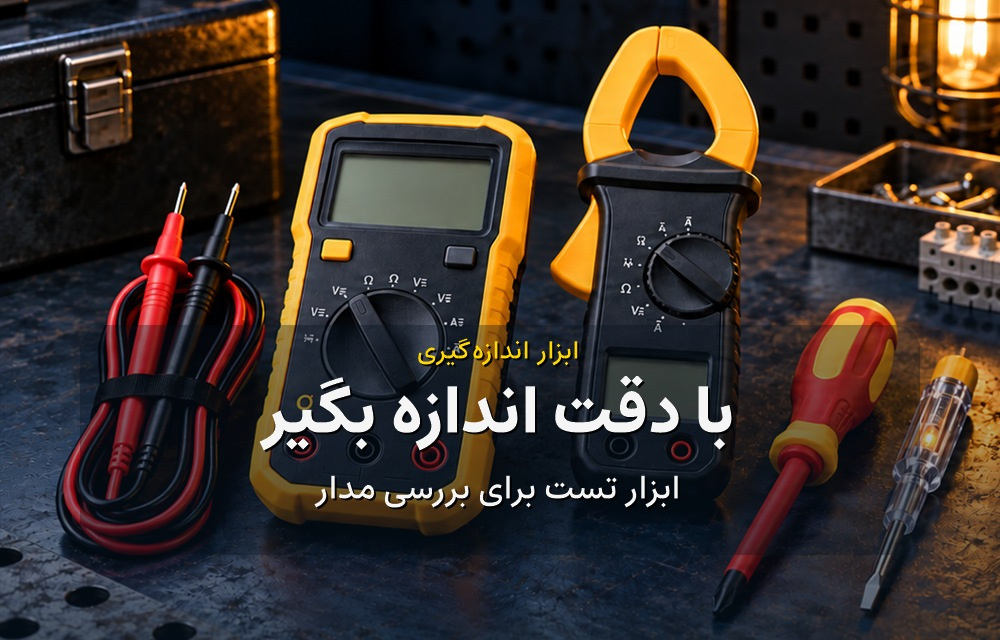
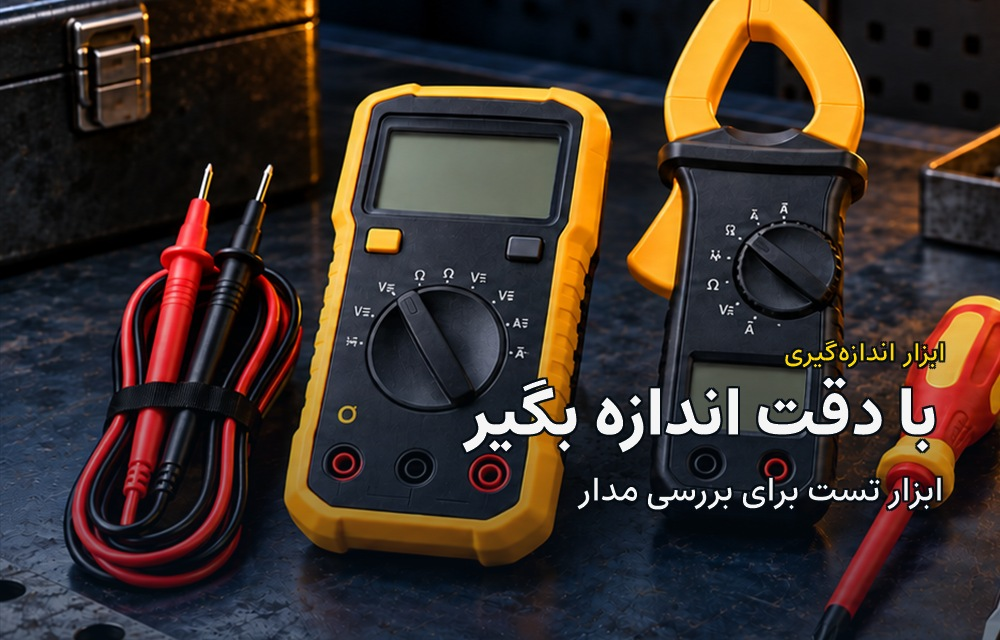
2

diff --git a/docs/media/images.md b/docs/media/images.md
@@ -51,7 +51,7 @@ content/products/
 | کاربرد | مسیر معمول | اندازهٔ پیشنهادی | وضعیت فعلی و نکتهٔ نمایش |
 |---|---|---:|---|
 | اسلایدر اصلی خانه — دسکتاپ | `content/sliders/` | **2160×800 px** (حدود 2.7:1) | قاب دسکتاپ ارتفاعی بین 320 و 440 px دارد و تصویر با `cover` نمایش داده میشود. بنرهای `electrical-components-pro-desktop-v2.png` و `electrical-measurement-desktop-v2.png` با حفظ ترکیب و رنگ، حاشیهٔ امن بیشتری برای متن دارند؛ اندازهٔ هر دو 2172×724 px است. نسخهٔ موبایل مستقل و با `cover` است. |
-| اسلایدر اصلی خانه — موبایل | `content/sliders/mobile/` | **1000×640 px** (حدود 1.56:1) | برای هر یک از شش بنر دسکتاپ، نسخهٔ موبایل مستقل ساخته شده است. متن کوتاه فارسی با فونت Estedad و هماهنگ با تیتر دسکتاپ، روی خود عکس raster شده است. سایهٔ تدریجی و ماسک نیمهشفاف کوچک پشت نوشته خوانایی را بهتر میکنند، بدون پنل سرمهای بزرگ یا متن HTML شناور. کیفیت JPEG با تنظیم بالا ذخیره میشود. نسبت فایل با قاب `cover` موبایل (حدود 220–300 px ارتفاع) هماهنگ است؛ هنگام افزودن موضوع تازه، خوانایی متن و کادر عکس را در عرضهای 360–412 px بررسی کنید. |
+| اسلایدر اصلی خانه — موبایل | `content/sliders/mobile/` | **1000×640 px** (حدود 1.56:1) | برای هر یک از شش بنر دسکتاپ، نسخهٔ موبایل مستقل ساخته شده است. متن کوتاه فارسی با فونت Estedad و هماهنگ با تیتر دسکتاپ، روی خود عکس raster شده است. سایهٔ تدریجی ملایم روی عکس و هالهٔ تیرهٔ دور حروف خوانایی را بهتر میکنند؛ نوشتهها راستچیناند و پنل یا ماسک مستطیلی ندارند. کیفیت JPEG با تنظیم بالا ذخیره میشود. نسبت فایل با قاب `cover` موبایل (حدود 220–300 px ارتفاع) هماهنگ است؛ هنگام افزودن موضوع تازه، خوانایی متن و کادر عکس را در عرضهای 360–412 px بررسی کنید. |
 | اسلایدرهای کوچک کالا در خانه | `shop/images/sliders/` | **800×800 px** (1:1) | چهار فایل فعلی 1254×1254 هستند. قاب تصویر کارت روی دسکتاپ 220 px و روی موبایل 190 px ارتفاع دارد. سوژه را وسط کادر و با حاشیهٔ امن بگذارید. |
 | کارت محصول، نتایج جستوجو و کالای مشابه | `content/products/images/card/` | **800×800 px** (1:1) | نسخهٔ کارت JPEG با کیفیت 84 از تصویر اصلی تولید شده و در کارتها و لیستها استفاده میشود. کارتهای Search با `cover` قاب را کامل پر میکنند؛ سایر variantها نیز بسته به چیدمان ممکن است `contain` یا `cover` داشته باشند. قاب کارت معمولاً 220 px و در بعضی اسلایدرهای موبایل 190 px ارتفاع دارد. |
 | عکس اصلی گالری جزئیات محصول | `content/products/images/main/` | **1600×1600 px** (حداقل 1200×1200) | فایلهای اصلی فعلی 1254×1254 هستند و بدون افت کیفیت نگهداری شدهاند. قاب بزرگ دسکتاپ حداقل 460 px، تبلت 360 px و موبایل 270 px ارتفاع دارد؛ چون در دسکتاپ ممکن است `cover` فعال باشد، اطراف محصول را خالی بگذارید. |
